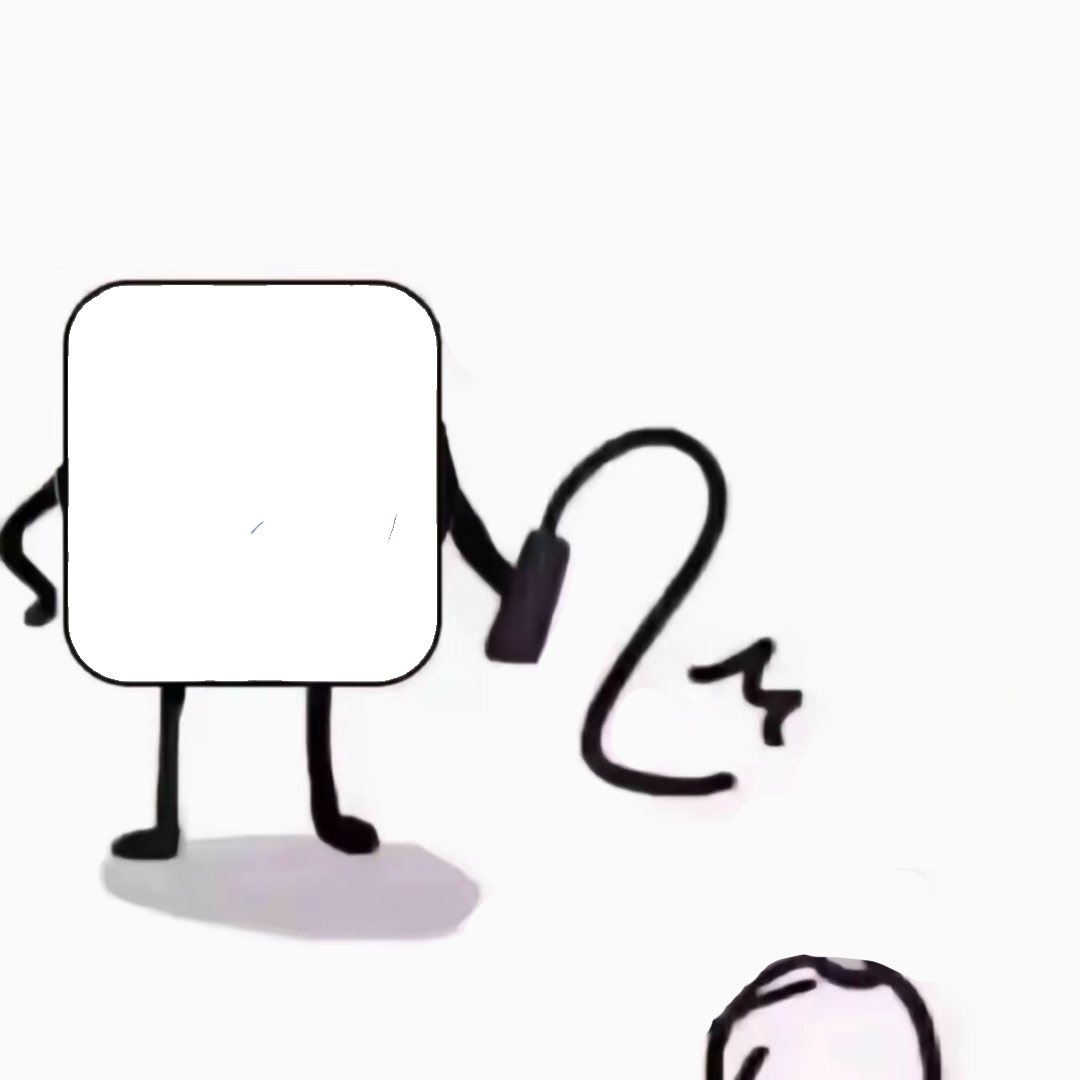
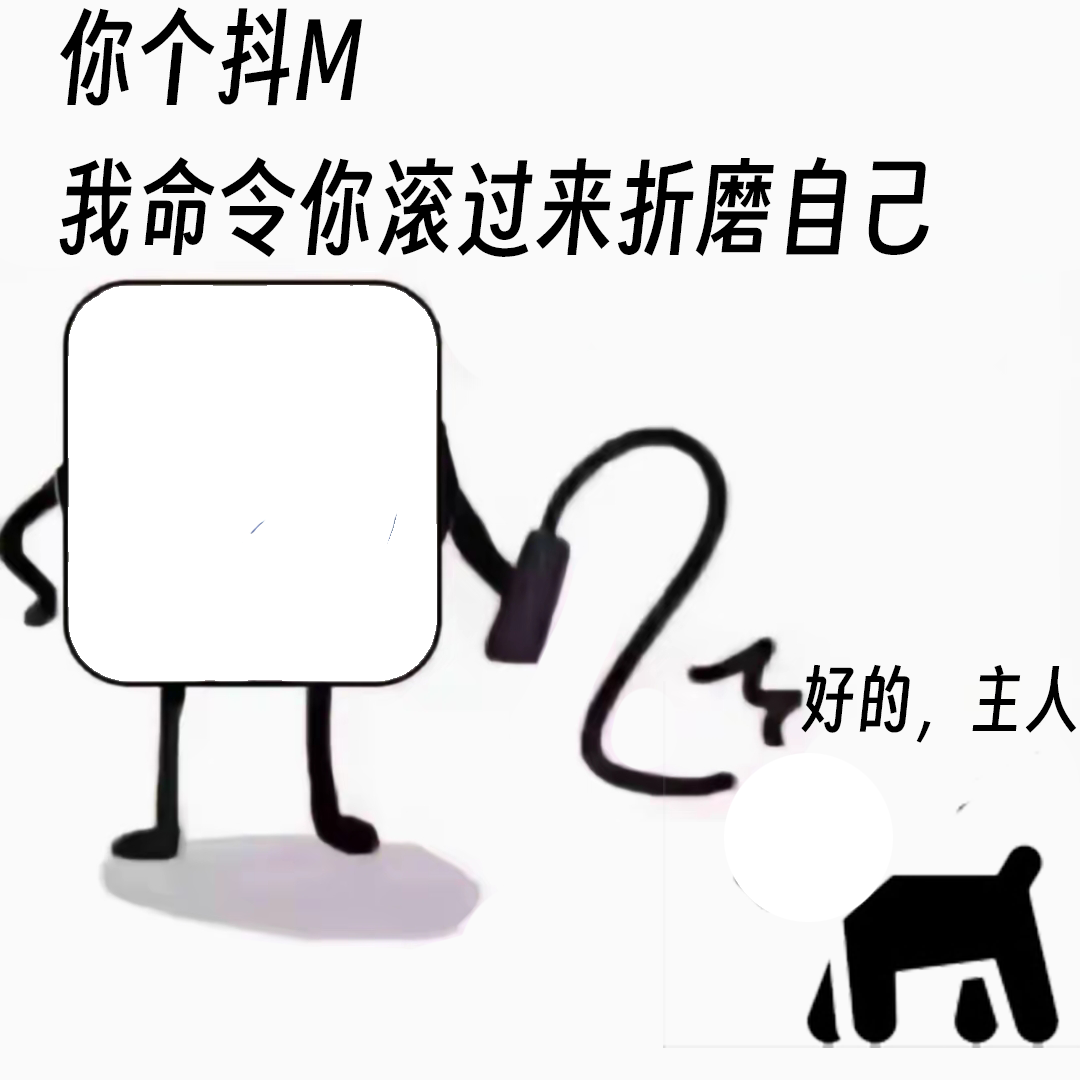
重做表情 torture_yourself 折磨自己 更新素材和代码坐标信息

diff --git a/emoji/torture_yourself/__init__.py b/emoji/torture_yourself/__init__.py
@@ -11,11 +11,11 @@ def torture_yourself(images: list[BuildImage], texts, args):
     frame = BuildImage.open(img_dir / "0.png")
     #
     frame.paste(
-        #被打人747, 822
-        images[1].convert("RGBA").circle().resize((200, 200)), (725, 780), alpha=True
+        #被动人
+        images[1].convert("RGBA").resize((175, 175)), (722, 752), alpha=True, below=True
     ).paste(
-        #主人70, 283
-        images[0].convert("RGBA").resize((400, 400)), (70, 283), alpha=True, below=True
+        #主人
+        images[0].convert("RGBA").resize((380, 410)), (63, 278), alpha=True, below=True
     )
     return frame.save_jpg()
 
@@ -27,5 +27,5 @@ add_meme(
     max_images=2,
     keywords=["折磨自己"],
     date_created=datetime(2025, 5, 25),
-    date_modified=datetime(2025, 5, 25),
+    date_modified=datetime(2025, 9, 4),
 )
